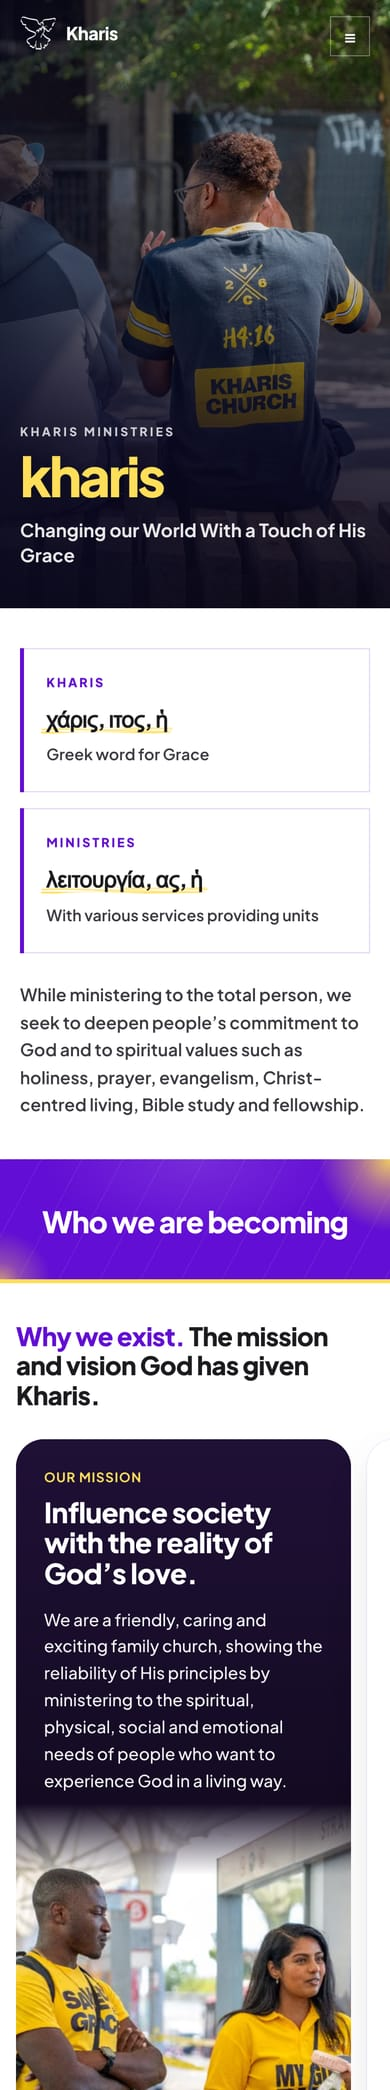
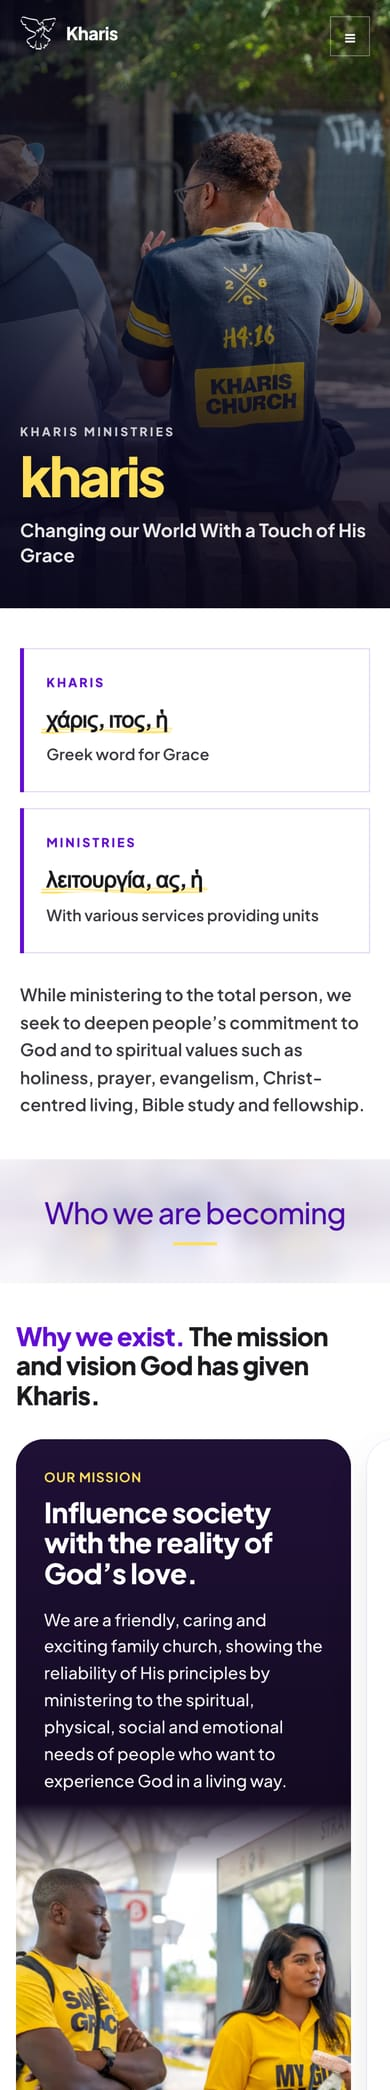
Docs: refresh before/after notes

Changed region(s): [[0.0, 0.5287, 1.0, 0.622]]

diff --git a/docs/updates/2026-10-14-about-messages/PR_DESCRIPTION.md b/docs/updates/2026-10-14-about-messages/PR_DESCRIPTION.md
@@ -93,7 +93,7 @@ The cards are now white with a purple bar on the left. When they scroll into vie
 
 ### "Who we are becoming" banner
 
-The banner is brighter, with warm gold glows in the corners and a gold line underneath.
+The banner now uses the same deep purple as the Mission, Vision and "Their story" panels, with a soft brand-purple glow and a gold line underneath, so the page reads as one colour family.
 
 | Before | After |
 | --- | --- |
@@ -110,7 +110,7 @@ Before, Mission, Vision and Leadership sat behind tabs, so only one showed at a 
 
 ### Vision
 
-Before, the vision points showed one at a time with Previous / Next buttons. Now one full-width dark-purple card shows all eight points with icons, and a church family photo fades in underneath with a soft curved edge.
+Before, the vision points showed one at a time with Previous / Next buttons. Now one full-width dark-purple card with a soft purple glow shows all eight points with icons, and a full-resolution church family photo fades in underneath with a soft curved edge.
 
 | Before | After |
 | --- | --- |
@@ -119,7 +119,7 @@ Before, the vision points showed one at a time with Previous / Next buttons. Now
 
 ### Leadership
 
-Pastors David and Awo are now in two cards side by side (Pastor David has a new photo). Their shared story sits in a dark-purple panel below, with an "Explore Kharis Life" button. The old layout had a lot of empty space at the bottom, and that's gone.
+Pastors David and Awo are now in two cards side by side (Pastor David has a new, full-resolution photo). Their shared story sits in a dark-purple panel below, with an "Explore Kharis Life" button. The old layout had a lot of empty space at the bottom, and that's gone.
 
 | Before | After |
 | --- | --- |
@@ -206,8 +206,10 @@ On top of `main` at `2941f79`:
 | `4c4f7b5` | Site: consistent 200ms button transitions, smooth logo and page crossfade |
 | `9b76bff` | About: redesigned Statement of Faith (bordered cards, hover/tap reveal) |
 | `aedfe13` | Chat: round launcher, pop-in, and bounce nudge for long scrolling |
+| `34146fb` | About: "Who we are becoming" banner in the dark panel purple with a soft purple wash |
+| `1a016fb` | About: full-resolution Vision, Mission and Pastor David photos; richer Vision gradient |
 
-These update notes are added in separate docs commits on the same branch.
+These update notes live in `docs/updates/2026-10-14-about-messages/` and were added in docs commits on the same branch (part of the refresh rode along in `1a016fb`).
 
 ## How to test
 

diff --git a/docs/updates/2026-10-14-about-messages/README.md b/docs/updates/2026-10-14-about-messages/README.md
@@ -89,7 +89,7 @@ The cards are now white with a purple bar on the left. When they scroll into vie
 
 ### "Who we are becoming" banner
 
-The banner is brighter, with warm gold glows in the corners and a gold line underneath.
+The banner now uses the same deep purple as the Mission, Vision and "Their story" panels, with a soft brand-purple glow and a gold line underneath, so the page reads as one colour family.
 
 | Before | After |
 | --- | --- |
@@ -106,7 +106,7 @@ Before, Mission, Vision and Leadership sat behind tabs, so only one showed at a 
 
 ### Vision
 
-Before, the vision points showed one at a time with Previous / Next buttons. Now one full-width dark-purple card shows all eight points with icons, and a church family photo fades in underneath with a soft curved edge.
+Before, the vision points showed one at a time with Previous / Next buttons. Now one full-width dark-purple card with a soft purple glow shows all eight points with icons, and a full-resolution church family photo fades in underneath with a soft curved edge.
 
 | Before | After |
 | --- | --- |
@@ -115,7 +115,7 @@ Before, the vision points showed one at a time with Previous / Next buttons. Now
 
 ### Leadership
 
-Pastors David and Awo are now in two cards side by side (Pastor David has a new photo). Their shared story sits in a dark-purple panel below, with an "Explore Kharis Life" button. The old layout had a lot of empty space at the bottom, and that's gone.
+Pastors David and Awo are now in two cards side by side (Pastor David has a new, full-resolution photo). Their shared story sits in a dark-purple panel below, with an "Explore Kharis Life" button. The old layout had a lot of empty space at the bottom, and that's gone.
 
 | Before | After |
 | --- | --- |
@@ -202,8 +202,10 @@ On top of `main` at `2941f79`:
 | `4c4f7b5` | Site: consistent 200ms button transitions, smooth logo and page crossfade |
 | `9b76bff` | About: redesigned Statement of Faith (bordered cards, hover/tap reveal) |
 | `aedfe13` | Chat: round launcher, pop-in, and bounce nudge for long scrolling |
+| `34146fb` | About: "Who we are becoming" banner in the dark panel purple with a soft purple wash |
+| `1a016fb` | About: full-resolution Vision, Mission and Pastor David photos; richer Vision gradient |
 
-These update notes are added in separate docs commits on the same branch.
+These update notes live in `docs/updates/2026-10-14-about-messages/` and were added in docs commits on the same branch (part of the refresh rode along in `1a016fb`).
 
 ## How to test
 
